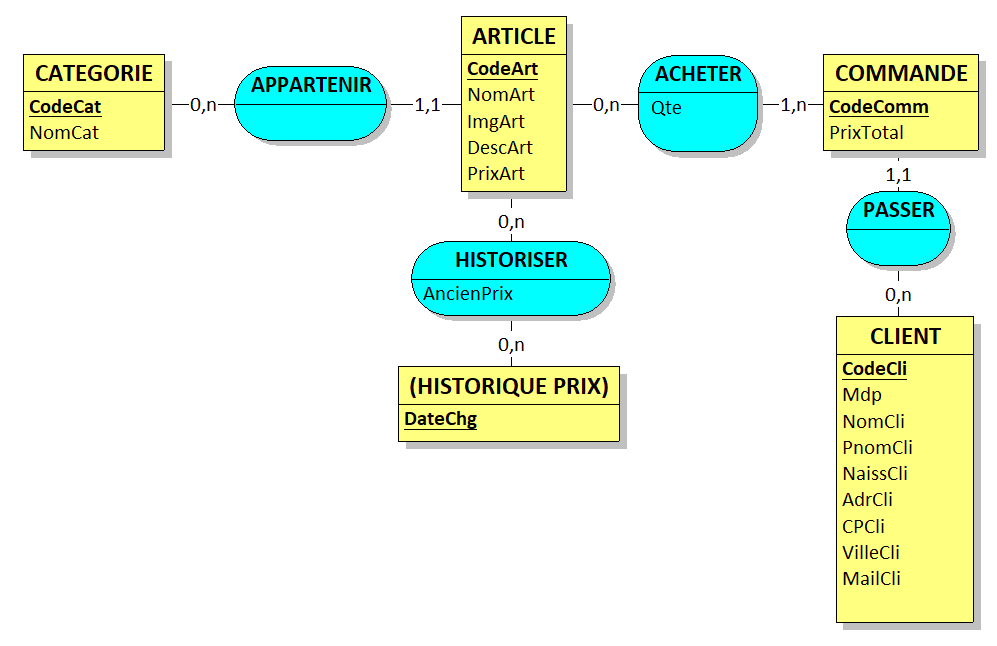
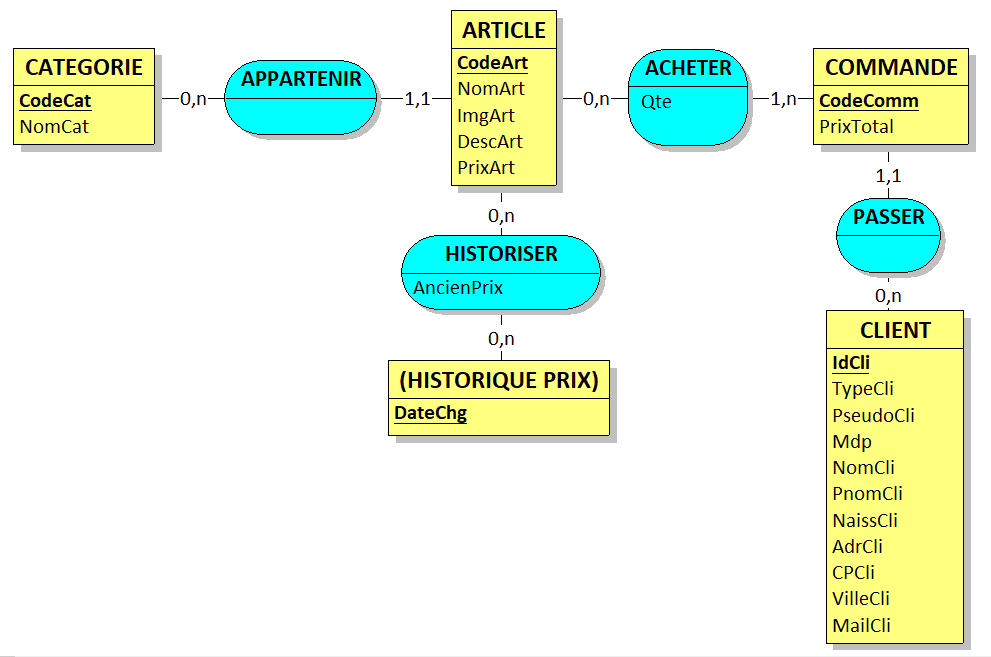
Amélioration de la BDD, correction d'un bug d'affichage sur la page produits, etc.

Changed region(s): [[0.0, 0.0, 0.999, 0.9907]]

diff --git a/src/assets/internal/products_content.php b/src/assets/internal/products_content.php
@@ -12,29 +12,33 @@
     <input type="submit" value="OK">
 </form>
 <?php
-    $cat = (isset($_POST["categ"]) && !empty($_POST["categ"])) ? $_POST["categ"] : die(); // Si la catégorie n'est pas définie, on arrête le script
-    $req = $bdd->prepare("SELECT * FROM ARTICLE WHERE CodeCat = ?");
-    $req->setFetchMode(PDO::FETCH_ASSOC);
-    $req->execute(array($cat));
+    $cat = (isset($_POST["categ"]) && !empty($_POST["categ"])) ? $_POST["categ"] : null;
+    if (!is_null($cat)){
+        $req = $bdd->prepare("SELECT * FROM ARTICLE WHERE CodeCat = ?");
+        $req->setFetchMode(PDO::FETCH_ASSOC);
+        $req->execute(array($cat));
 
-    foreach($req->fetchAll() as $val){
-        $name = $val["NomArt"];
-        $img = $val["ImgArt"];
-        $desc = $val["DescArt"];
-        $price = $val["PrixArt"];
-        $code = $val["CodeArt"];
-        ?>
-        <section class="product">
-            <h2><?php echo $name; ?></h2>
-            <?php echo '<img src="/assets/images/' . $img . '" alt="' . $name . '">'; ?>
-            <p class="italic"><?php echo $desc; ?></p>
-            <p><span class="bold">Prix: </span><?php echo $price; ?>€</p>
-            <form method="POST" action="/?action=addprod">
-                <?php echo '<input type="hidden" name="codeprod" value="' . $code . '">'; ?>
-                <input type="number" name="qte" value="1">
-                <input type="submit" value="Ajouter au panier">
-            </form>
-        </section>
-        <?php
+        foreach($req->fetchAll() as $val){
+            $name = $val["NomArt"];
+            $img = $val["ImgArt"];
+            $desc = $val["DescArt"];
+            $price = $val["PrixArt"];
+            $code = $val["CodeArt"];
+            ?>
+            <section class="product">
+                <h2><?php echo $name; ?></h2>
+                <?php echo '<img src="/assets/images/' . $img . '" alt="' . $name . '">'; ?>
+                <p class="italic"><?php echo $desc; ?></p>
+                <p><span class="bold">Prix: </span><?php echo $price; ?>€</p>
+                <form method="POST" action="/?action=addprod">
+                    <?php echo '<input type="hidden" name="codeprod" value="' . $code . '">'; ?>
+                    <input type="number" name="qte" value="1">
+                    <input type="submit" value="Ajouter au panier">
+                </form>
+            </section>
+            <?php
+        }
+    } else {
+        ?><p>Veuillez sélectionner une catégorie!</p><?php
     }
 ?>

diff --git a/src/index.php b/src/index.php
@@ -39,12 +39,11 @@
         <link rel="stylesheet" type="text/css" href="/style/common.css">
     </head>
     <body>
-        <?php include("./assets/internal/header.php"); ?>
+        <?php include_once("./assets/internal/header.php"); ?>
         <aside>
             <h2>Votre Panier</h2>
             <ul>
                 <?php
-                    // TODO Ajouter les prix + cumul
                     $total_fac = 0;
                     foreach($_SESSION["products"] as $key => $val){
                         $req = $bdd->prepare("SELECT NomArt, PrixArt FROM ARTICLE WHERE CodeArt = ?");
@@ -59,7 +58,7 @@
                 ?>
             </ul>
             <p class="bold">Total : <?php echo $total_fac . "€"; ?></p>
-            <a href="#">Acheter</a>
+            <a href="/buy">Acheter</a>
             <a href="/?action=clear">Vider</a>
         </aside>
         <?php
@@ -73,13 +72,11 @@
 
             if (in_array($action, pages, true)){
                 $file = "./assets/internal/" . $action . "_content";
-                $file = (file_exists($file . ".htm")) ? $file.".htm" : $file.".php";
-                include($file);
-            } else {
-                // TODO Include some error page : 404 not found or thing alike!
+                $file = (file_exists($file . ".htm")) ? $file . ".htm" : $file . ".php";
+                include_once($file);
             }
             
-            include("./assets/internal/footer.htm");
+            include_once("./assets/internal/footer.htm");
         ?>
     </body>
 </html>

diff --git a/src/form/login_form.php b/src/form/login_form.php
@@ -19,29 +19,29 @@
         ${$var} = $_POST[$var];
     }
 
-    $req = $bdd->prepare("SELECT CodeCli, Mdp FROM CLIENT WHERE CodeCli = ?");
+    $req = $bdd->prepare("SELECT IdCli, Mdp FROM CLIENT WHERE PseudoCli = ?");
     $req->execute(array($user));
 
     if ($req->rowCount() === 0){
-        echo "Ce compte n'existe pas!";
         ?>
-            <br><a href="/register">S'enregistrer</a>
+            <p>Ce compte n'existe pas!</p>
+            <a href="/register">S'enregistrer</a>
             <script>setTimeout(`location.href = '/register'`,4000)</script>
         <?php
     } else {
         $resp = $req->fetch(PDO::FETCH_ASSOC);
         if (password_verify($pass, $resp["Mdp"])){
+            $_SESSION["id"] = $resp["IdCli"];
             $_SESSION["pseudo"] = $user;
-            $_SESSION["products"] = array();
-            echo "Vous êtes connecté!";
             ?>
-                <br><a href="/index">Retour à la racine du site</a>
+                <p>Vous êtes connecté!</p>
+                <a href="/index">Retour à la racine du site</a>
                 <script>setTimeout(`location.href = '/index'`,4000)</script>
             <?php
         } else {
-            echo("Mot de passe incorrect!");
             ?>
-                <br><a href="/login">Revenir à l'écran de connexion</a>
+                <p>Mot de passe incorrect!</p>
+                <a href="/login">Revenir à l'écran de connexion</a>
                 <script>setTimeout(`location.href = '/login'`,4000)</script>
             <?php
         }

diff --git a/src/form/register_form.php b/src/form/register_form.php
@@ -15,7 +15,16 @@
     }
     $pass = password_hash($pass, PASSWORD_BCRYPT);
     
-    $req = $bdd->prepare("INSERT INTO CLIENT VALUES(:nick, :pass, :name, :fname, :birth, :adr, :cp, :city, :mail)");
+    $req = $bdd->prepare("SELECT IdCli FROM CLIENT WHERE PseudoCli = ?");
+    $req->execute(array($nick));
+    if ($req->rowCount() !== 0){
+        die("Ce pseudo est déjà utilisé!");
+    }
+    $req->closeCursor();
+
+    $req = $bdd->prepare("INSERT INTO
+            CLIENT(TypeCli, PseudoCli, Mdp, NomCli, PnomCli, NaissCli, AdrCli, CPCli, VilleCli, MailCli)
+            VALUES(0, :nick, :pass, :name, :fname, :birth, :adr, :cp, :city, :mail)");
     $req->execute(array(
         ":nick" => $nick,
         ":pass" => $pass,

diff --git a/src/buy.php b/src/buy.php
@@ -1,0 +1,12 @@
+<?php
+    session_start();
+    if (!isset($_SESSION["pseudo"])){
+        ?>
+            <p>Vous devez être connecté pour passer commande!</p>
+            <a href="/login">Se connecter</a>
+            <a href="/register">S'inscrire</a>
+        <?php
+    } else {
+        
+    }
+?>
